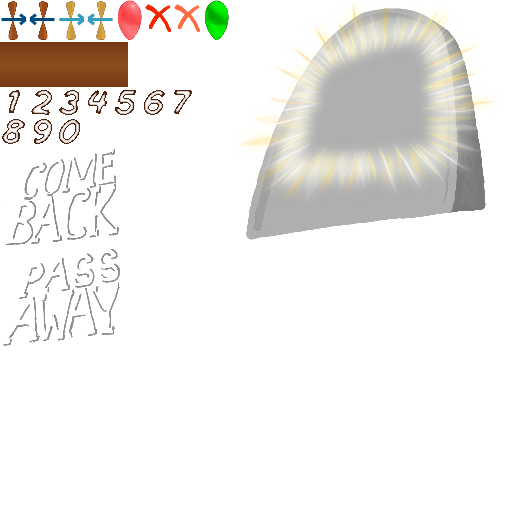
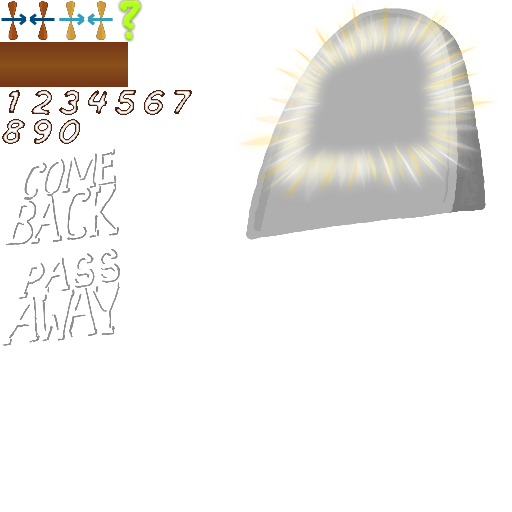
helpers for individual levels

Changed region(s): [[0.2188, 0.0, 0.4688, 0.0938]]

diff --git a/Kabloons/src/com/hypefoundry/kabloons/entities/player/PlayerController.java b/Kabloons/src/com/hypefoundry/kabloons/entities/player/PlayerController.java
@@ -11,15 +11,18 @@ import com.hypefoundry.engine.gestures.GesturesListener;
 import com.hypefoundry.engine.gestures.GesturesRecognition;
 import com.hypefoundry.engine.hud.ButtonListener;
 import com.hypefoundry.engine.hud.HudLayout;
+import com.hypefoundry.engine.hud.widgets.button.ButtonWidget;
 import com.hypefoundry.engine.hud.widgets.image.ImageWidget;
 import com.hypefoundry.engine.math.Vector3;
 import com.hypefoundry.engine.renderer2D.Camera2D;
 import com.hypefoundry.engine.world.Entity;
 import com.hypefoundry.engine.world.World;
+import com.hypefoundry.engine.world.WorldView;
 import com.hypefoundry.kabloons.GameScreen;
 import com.hypefoundry.kabloons.entities.background.AnimatedBackground;
 import com.hypefoundry.kabloons.entities.baloon.Baloon;
 import com.hypefoundry.kabloons.entities.fan.Fan;
+import com.hypefoundry.kabloons.entities.help.Help;
 import com.hypefoundry.kabloons.utils.AssetsFactory;
 
 
@@ -35,6 +38,7 @@ public class PlayerController extends FiniteStateMachine
 	private Camera2D					m_camera;
 	private AssetsFactory 				m_assetsFactory;
 	private GesturesRecognition			m_gesturesRecognition;
+	
 
 	// ------------------------------------------------------------------------
 	// States
@@ -45,11 +49,13 @@ public class PlayerController extends FiniteStateMachine
 	 * 
 	 * @author Paksas
 	 */
-	class Gameplay extends FSMState implements GesturesListener, PlayerListener
+	class Gameplay extends FSMState implements GesturesListener, PlayerListener, WorldView, ButtonListener
 	{
 		// baloon related data
 		private Vector3				m_baloonReleasePos = new Vector3( 2.4f, -0.2f, 0.0f );
 		private Baloon				m_baloon;
+		
+		private Help				m_help = null;
 		
 		private Vector3				m_touchPos = new Vector3();
 		private HudLayout			m_hudLayout;
@@ -63,6 +69,7 @@ public class PlayerController extends FiniteStateMachine
 			{
 				m_hudLayout = m_screen.getResourceManager().getResource( HudLayout.class, "hud/gameplay/gameHud.xml" );
 				m_hudLayout.attachRenderer( m_screen.m_hudRenderer ); 
+				m_hudLayout.attachButtonListener( this );
 						
 				updateFanCounters();
 			}
@@ -71,11 +78,14 @@ public class PlayerController extends FiniteStateMachine
 			m_gesturesRecognition.attachListener( this );
 			
 			m_player.attachListener( this );
+			
+			m_world.attachView( this );
 		}
 		
 		@Override
 		public void deactivate()
 		{		
+			m_hudLayout.detachButtonListener( this );
 			m_hudLayout.detachRenderer( m_screen.m_hudRenderer ); 
 			m_hudLayout = null;
 			
@@ -83,6 +93,8 @@ public class PlayerController extends FiniteStateMachine
 			m_screen.unregisterInputHandler( m_gesturesRecognition  );
 			
 			m_player.detachListener( this );
+			
+			m_world.detachView( this );
 		}
 		
 		@Override
@@ -130,6 +142,15 @@ public class PlayerController extends FiniteStateMachine
 					m_baloon = m_assetsFactory.createRandomBaloon( m_baloonReleasePos );
 					m_screen.m_world.addEntity( m_baloon );
 				}
+			}
+		}
+		
+		@Override
+		public void onButtonPressed( String id ) 
+		{
+			if ( id.equalsIgnoreCase( "HelpButton" ) && m_help != null )
+			{
+				m_help.toggleVisible();
 			}
 		}
 		
@@ -218,6 +239,37 @@ public class PlayerController extends FiniteStateMachine
 		public void onFansCountChanged() 
 		{
 			updateFanCounters();
+		}
+
+		@Override
+		public void onAttached(World world) {}
+
+		@Override
+		public void onDetached(World world) {}
+
+		@Override
+		public void onEntityAdded(Entity entity) 
+		{
+			if ( entity instanceof Help )
+			{
+				m_help = (Help)entity;
+				
+				// show the help icon
+				ButtonWidget helpButton = m_hudLayout.getWidget( ButtonWidget.class, "HelpButton" );
+				helpButton.m_isVisible = true;
+			}
+		}
+
+		@Override
+		public void onEntityRemoved(Entity entity) 
+		{
+			if ( entity instanceof Help )
+			{
+				m_help = null;
+				
+				ButtonWidget helpButton = m_hudLayout.getWidget( ButtonWidget.class, "HelpButton" );
+				helpButton.m_isVisible = false;
+			}
 		}
 	}
 	

diff --git a/Kabloons/src/com/hypefoundry/kabloons/GameScreen.java b/Kabloons/src/com/hypefoundry/kabloons/GameScreen.java
@@ -44,6 +44,9 @@ import com.hypefoundry.kabloons.entities.fan.Fan;
 import com.hypefoundry.kabloons.entities.fan.FanController;
 import com.hypefoundry.kabloons.entities.fan.FanPhysicalBody;
 import com.hypefoundry.kabloons.entities.fan.FanVisual;
+import com.hypefoundry.kabloons.entities.help.Help;
+import com.hypefoundry.kabloons.entities.help.HelpController;
+import com.hypefoundry.kabloons.entities.help.HelpVisual;
 import com.hypefoundry.kabloons.entities.player.Player;
 import com.hypefoundry.kabloons.entities.player.PlayerController;
 import com.hypefoundry.kabloons.entities.toggle.Toggle;
@@ -113,6 +116,7 @@ public class GameScreen extends Screen
 		m_world.registerEntity( Toggle.class, new EntityFactory() { @Override public Entity create() { return new Toggle(); } } );
 		m_world.registerEntity( BuzzSaw.class, new EntityFactory() { @Override public Entity create() { return new BuzzSaw(); } } );
 		m_world.registerEntity( StartTutorial.class, new EntityFactory() { @Override public Entity create() { return new StartTutorial(); } } );
+		m_world.registerEntity( Help.class, new EntityFactory() { @Override public Entity create() { return new Help(); } } );
 		
 		// load the world
 		try 
@@ -142,6 +146,7 @@ public class GameScreen extends Screen
 		m_worldRenderer.register( Toggle.class, new EntityVisualFactory() { @Override public EntityVisual instantiate( Entity parentEntity ) { return new ToggleVisual( m_resourceManager, parentEntity ); } } );
 		m_worldRenderer.register( BuzzSaw.class, new EntityVisualFactory() { @Override public EntityVisual instantiate( Entity parentEntity ) { return new BuzzSawVisual( m_resourceManager, parentEntity ); } } );
 		m_worldRenderer.register( StartTutorial.class, new EntityVisualFactory() { @Override public EntityVisual instantiate( Entity parentEntity ) { return new StartTutorialVisual( m_resourceManager, parentEntity ); } } );
+		m_worldRenderer.register( Help.class, new EntityVisualFactory() { @Override public EntityVisual instantiate( Entity parentEntity ) { return new HelpVisual( m_resourceManager, parentEntity ); } } );
 		
 		// register controllers
 		m_world.attachView( m_controllersView );
@@ -150,6 +155,7 @@ public class GameScreen extends Screen
 		m_controllersView.register( Player.class , new EntityControllerFactory() { @Override public EntityController instantiate( Entity parentEntity ) { return new PlayerController( gameScreen, parentEntity ); } } );
 		m_controllersView.register( Toggle.class , new EntityControllerFactory() { @Override public EntityController instantiate( Entity parentEntity ) { return new ToggleController( parentEntity ); } } );
 		m_controllersView.register( StartTutorial.class , new EntityControllerFactory() { @Override public EntityController instantiate( Entity parentEntity ) { return new StartTutorialController( m_world, parentEntity ); } } );
+		m_controllersView.register( Help.class , new EntityControllerFactory() { @Override public EntityController instantiate( Entity parentEntity ) { return new HelpController( parentEntity ); } } );
 		
 		// register physics
 		m_world.attachView( m_physicsView );

diff --git a/Kabloons/src/com/hypefoundry/kabloons/entities/help/HelpVisual.java b/Kabloons/src/com/hypefoundry/kabloons/entities/help/HelpVisual.java
@@ -1,0 +1,43 @@
+/**
+ * 
+ */
+package com.hypefoundry.kabloons.entities.help;
+
+import com.hypefoundry.engine.core.ResourceManager;
+import com.hypefoundry.engine.math.BoundingBox;
+import com.hypefoundry.engine.math.Vector3;
+import com.hypefoundry.engine.renderer2D.Camera2D;
+import com.hypefoundry.engine.renderer2D.EntityVisual;
+import com.hypefoundry.engine.renderer2D.SpriteBatcher;
+import com.hypefoundry.engine.renderer2D.TextureRegion;
+import com.hypefoundry.engine.world.Entity;
+
+/**
+ * @author Paksas
+ *
+ */
+public class HelpVisual extends EntityVisual 
+{
+	private TextureRegion 		m_image;
+	private Help				m_help;
+	
+
+	public HelpVisual( ResourceManager resMgr, Entity helpEntity ) 
+	{
+		super(helpEntity);
+		
+		m_help = (Help)helpEntity;
+		m_image = resMgr.getResource( TextureRegion.class, m_help.m_imagePath );
+	}
+
+	@Override
+	public void draw( SpriteBatcher batcher, Camera2D camera, float deltaTime ) 
+	{
+		if ( m_help.m_isVisible )
+		{
+			Vector3 pos = m_entity.getPosition();
+			BoundingBox bs = m_entity.getBoundingShape();
+			batcher.drawSprite( pos, bs, m_image );
+		}
+	}
+}

diff --git a/Kabloons/src/com/hypefoundry/kabloons/entities/help/HelpController.java b/Kabloons/src/com/hypefoundry/kabloons/entities/help/HelpController.java
@@ -1,0 +1,63 @@
+/**
+ * 
+ */
+package com.hypefoundry.kabloons.entities.help;
+
+import com.hypefoundry.engine.controllers.EntityController;
+import com.hypefoundry.engine.world.Entity;
+
+/**
+ * @author Paksas
+ *
+ */
+public class HelpController extends EntityController
+{
+	private Help		m_help;
+	private float		m_lifeTimer;
+	
+	/**
+	 * Constructor.
+	 * 
+	 * @param helpEntity
+	 */
+	public HelpController( Entity helpEntity ) 
+	{
+		super( helpEntity );
+		
+		m_help = (Help)helpEntity;
+		m_lifeTimer = 0.0f;
+		
+		m_help.m_listener = this;
+	}
+
+	@Override
+	public void update( float deltaTime ) 
+	{
+		if ( m_lifeTimer > 0 )
+		{
+			m_lifeTimer -= deltaTime;
+			
+			if ( m_lifeTimer <= 0 )
+			{
+				// hide the help image
+				m_help.m_isVisible = false;
+			}
+		}
+	}
+	
+	/**
+	 * Called when help visibility changes.
+	 */
+	void onHelpVisibilityChanged()
+	{
+		if ( m_help.m_isVisible )
+		{
+			// show the help for 5 seconds, and then hide it automatically
+			m_lifeTimer = 5.0f;
+		}
+		else
+		{
+			m_lifeTimer = 0.0f;
+		}
+	}
+}

diff --git a/Kabloons/src/com/hypefoundry/kabloons/entities/help/Help.java b/Kabloons/src/com/hypefoundry/kabloons/entities/help/Help.java
@@ -1,0 +1,39 @@
+/**
+ * 
+ */
+package com.hypefoundry.kabloons.entities.help;
+
+import com.hypefoundry.engine.util.serialization.DataLoader;
+import com.hypefoundry.engine.world.Entity;
+
+/**
+ * @author Paksas
+ *
+ */
+public class Help extends Entity 
+{
+	String 				m_imagePath;
+	boolean				m_isVisible 		= false;
+	
+	HelpController		m_listener			= null;
+	
+	
+	/**
+	 * Toggles visibility of the help element.
+	 */
+	public void toggleVisible()
+	{
+		m_isVisible = !m_isVisible;
+		
+		if ( m_listener != null )
+		{
+			m_listener.onHelpVisibilityChanged();
+		}
+	}
+	
+	@Override
+	public void onLoad( DataLoader loader ) 
+	{
+		m_imagePath = loader.getStringValue( "path" );
+	}
+}
